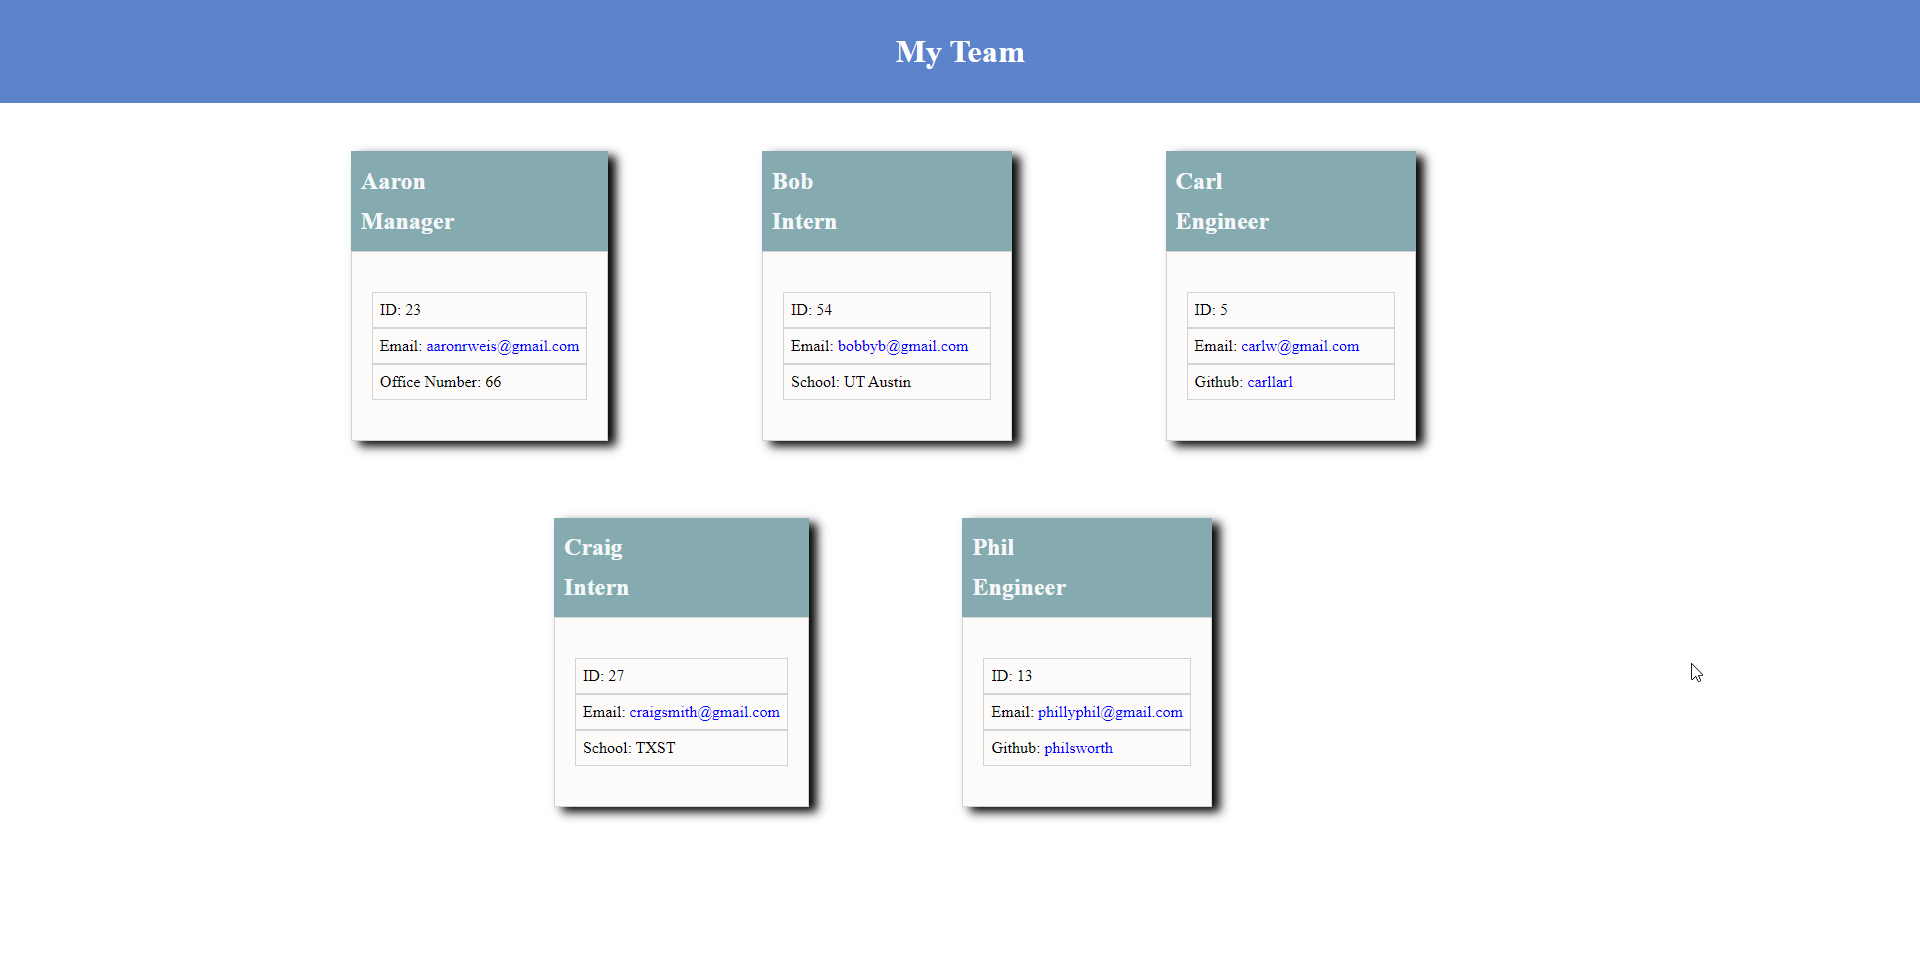
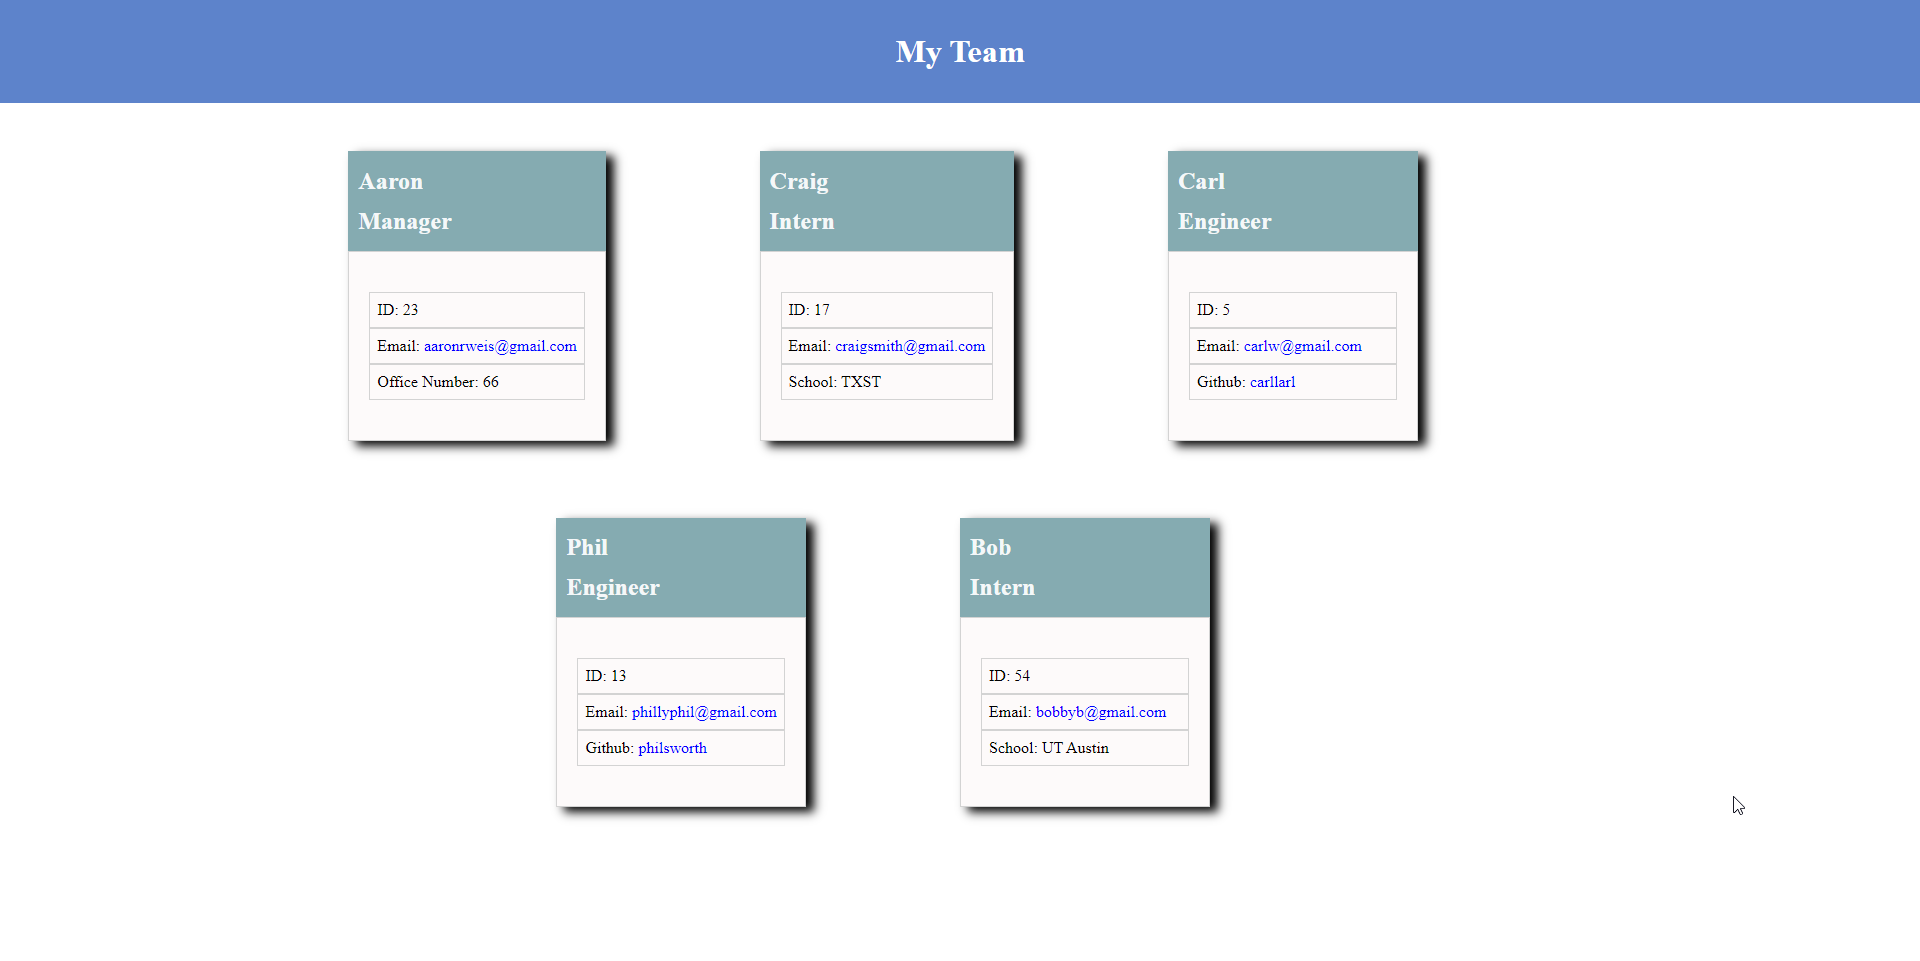
actually fixed the multiple div issue

diff --git a/dist/team-build.html b/dist/team-build.html
@@ -23,13 +23,13 @@
         </div>
         
         <div class="team-card">
-        <h2 class="name">Bob</h2>
+        <h2 class="name">Craig</h2>
         <h2 class="role">Intern</h2>
         <div class="sub-items">
-        <p class="id">ID: 54</p>
-        <p class="email">Email: <a href = "mailto: bobbyb@gmail.com">bobbyb@gmail.com</a></p>
+        <p class="id">ID: 17</p>
+        <p class="email">Email: <a href = "mailto: craigsmith@gmail.com">craigsmith@gmail.com</a></p>
         
-                <p class="misc">School: UT Austin</p>
+                <p class="misc">School: TXST</p>
                 
         </div>
         </div>
@@ -47,18 +47,6 @@
         </div>
         
         <div class="team-card">
-        <h2 class="name">Craig</h2>
-        <h2 class="role">Intern</h2>
-        <div class="sub-items">
-        <p class="id">ID: 27</p>
-        <p class="email">Email: <a href = "mailto: craigsmith@gmail.com">craigsmith@gmail.com</a></p>
-        
-                <p class="misc">School: TXST</p>
-                
-        </div>
-        </div>
-        
-        <div class="team-card">
         <h2 class="name">Phil</h2>
         <h2 class="role">Engineer</h2>
         <div class="sub-items">
@@ -70,6 +58,19 @@
         </div>
         </div>
         
+        <div class="team-card">
+        <h2 class="name">Bob</h2>
+        <h2 class="role">Intern</h2>
+        <div class="sub-items">
+        <p class="id">ID: 54</p>
+        <p class="email">Email: <a href = "mailto: bobbyb@gmail.com">bobbyb@gmail.com</a></p>
+        
+                <p class="misc">School: UT Austin</p>
+                
+        </div>
+        </div>
+        
     </main>
     </body>
     </html>
+    

diff --git a/index.js b/index.js
@@ -3,6 +3,7 @@ const Manager = require('./lib/manager');
 const Engineer = require('./lib/engineer');
 const Intern = require('./lib/intern');
 const fs = require('fs');
+let fixYet = false;
 
 console.log('Welcome to the team builder app. Please enter the following information.');
 
@@ -200,9 +201,12 @@ function constructTeam() {
 
         fs.appendFile('./dist/team-build.html', htmlAdd, function (err) {
             if (err) throw err; 
+            if (!fixYet) {
+            fixYet = true;
+            fixHtml();
+            }
     })
   }
-  fixHtml();
 }
 
 function fixHtml() {

diff --git a/README.md b/README.md
@@ -1,6 +1,6 @@
 <h1 align="center">team-employee-generator</h1>
 
-<p align="center">Jest and Inquirer week 10 challenge<project-description></p>
+<p align="center">Jest & Inquirer week 10 challenge<project-description></p>
 
 ## Screenshots
 
